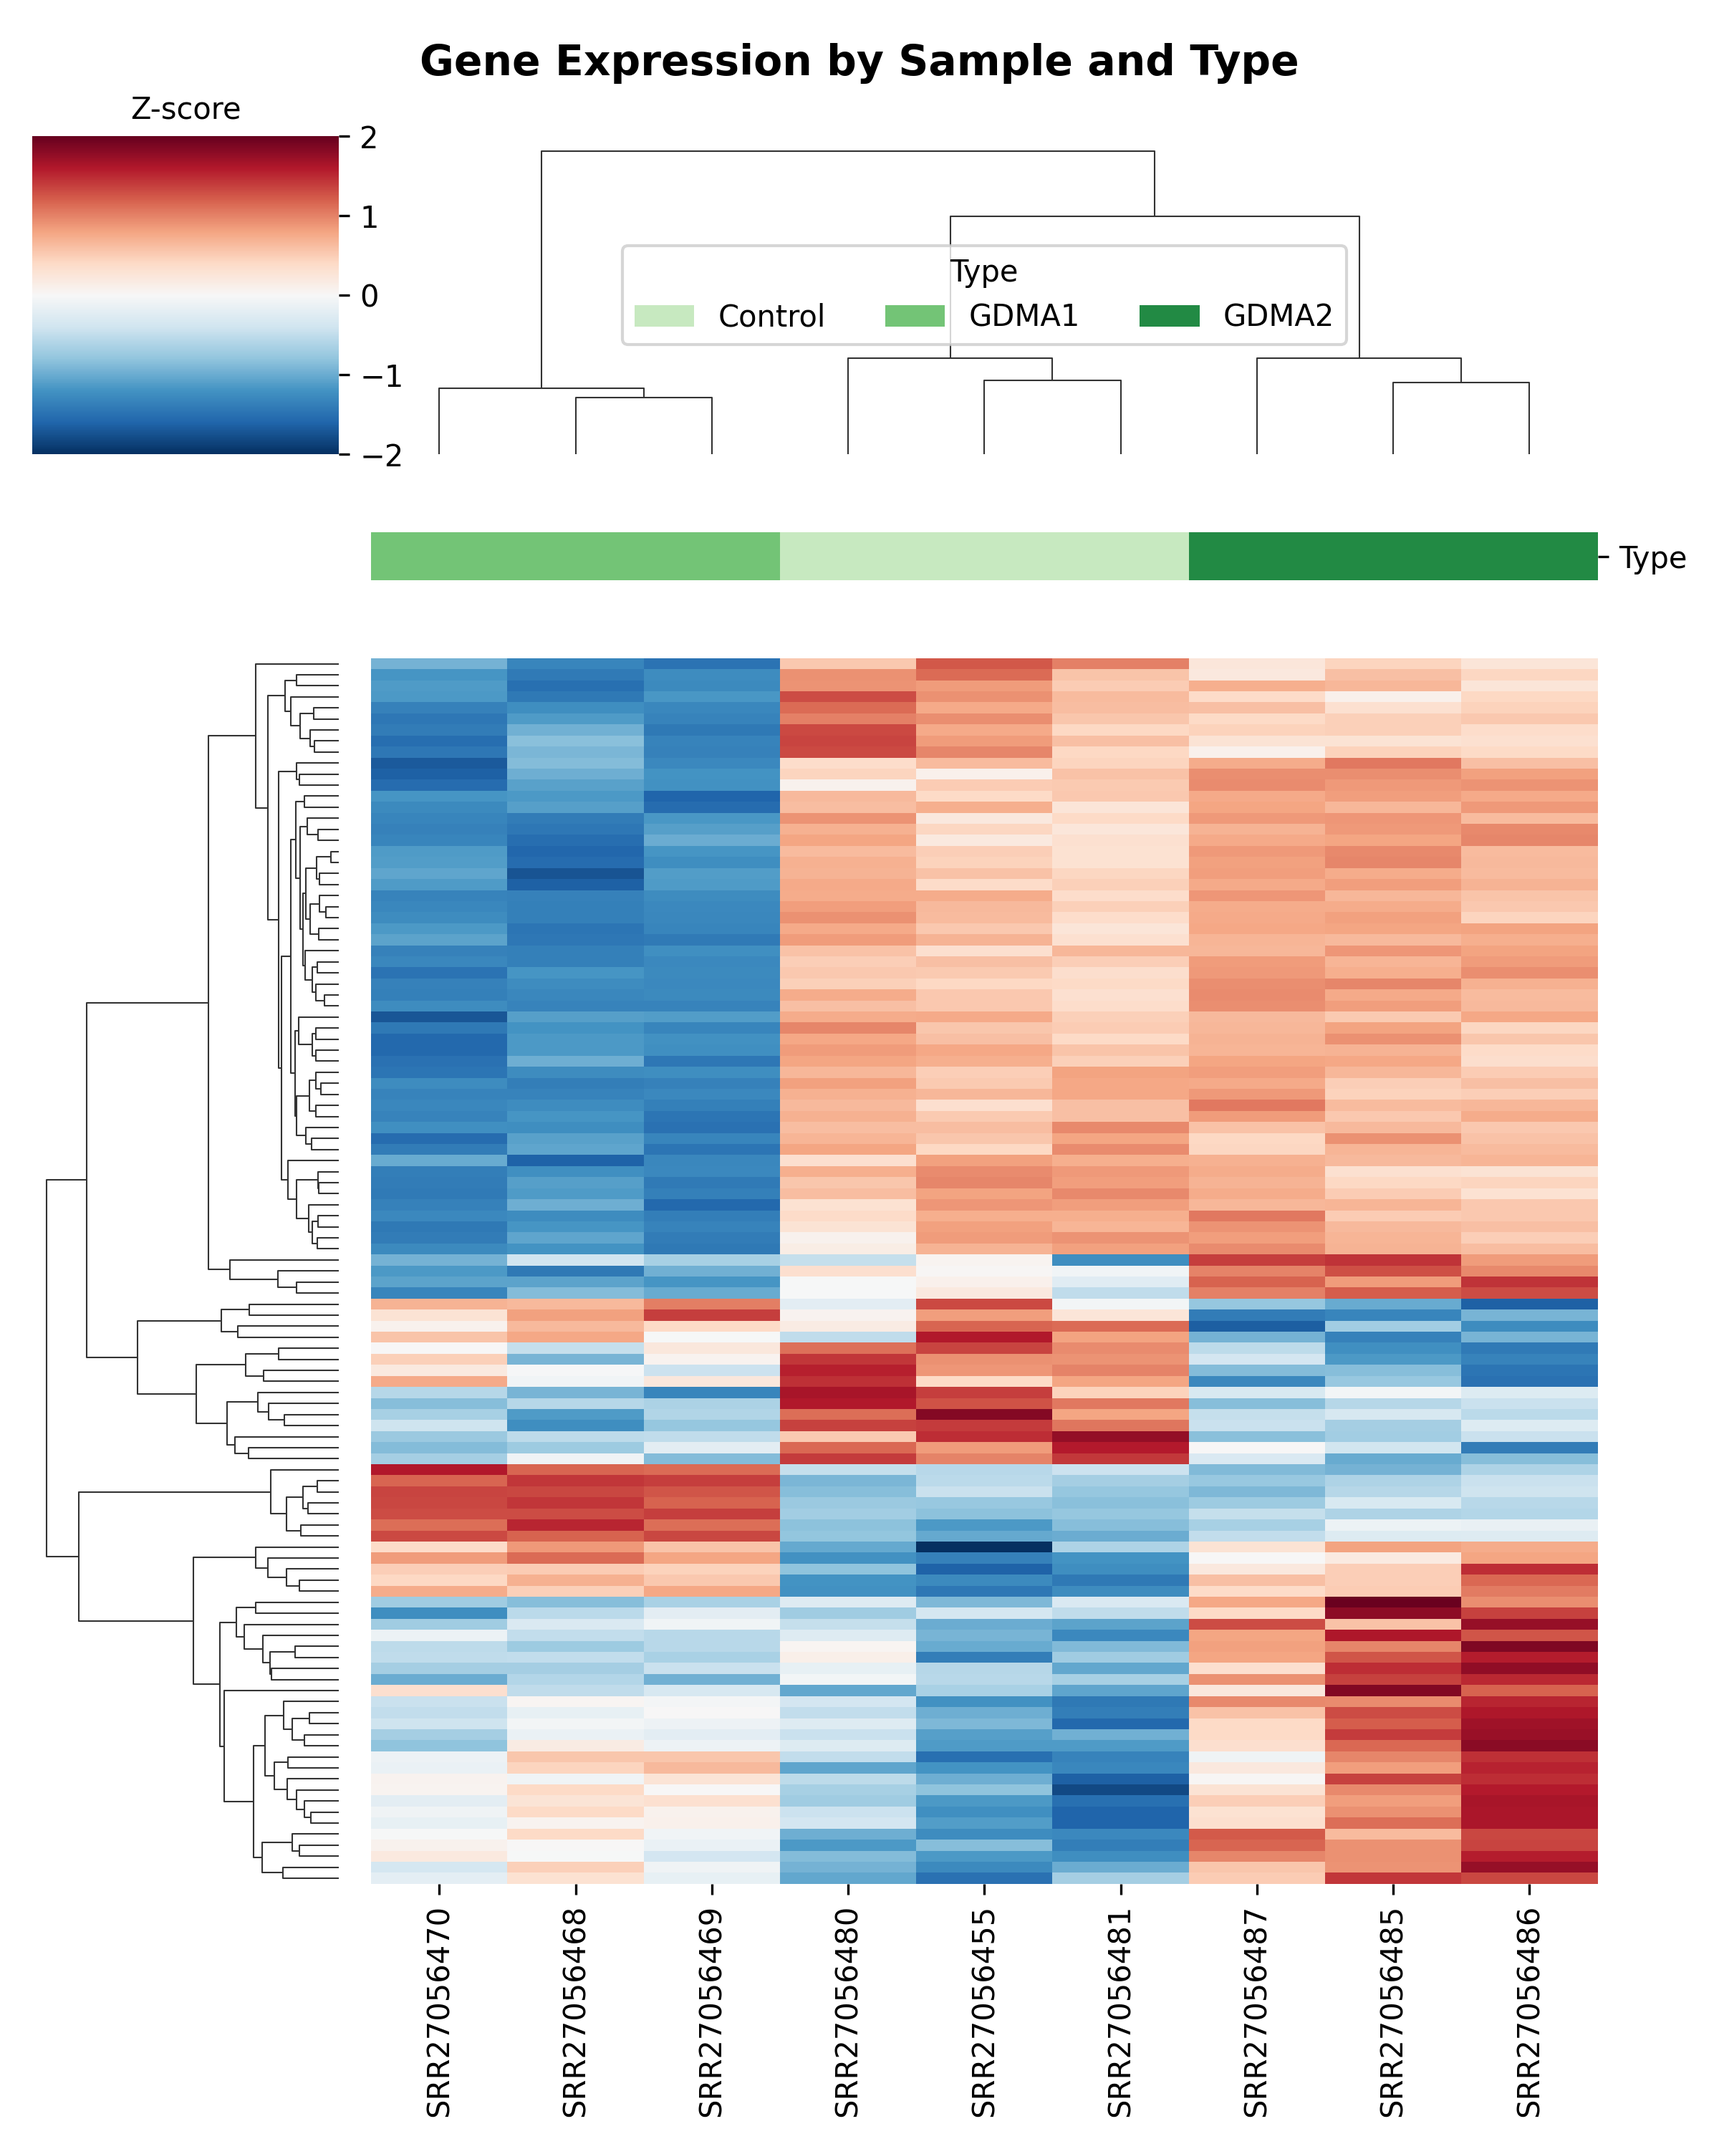
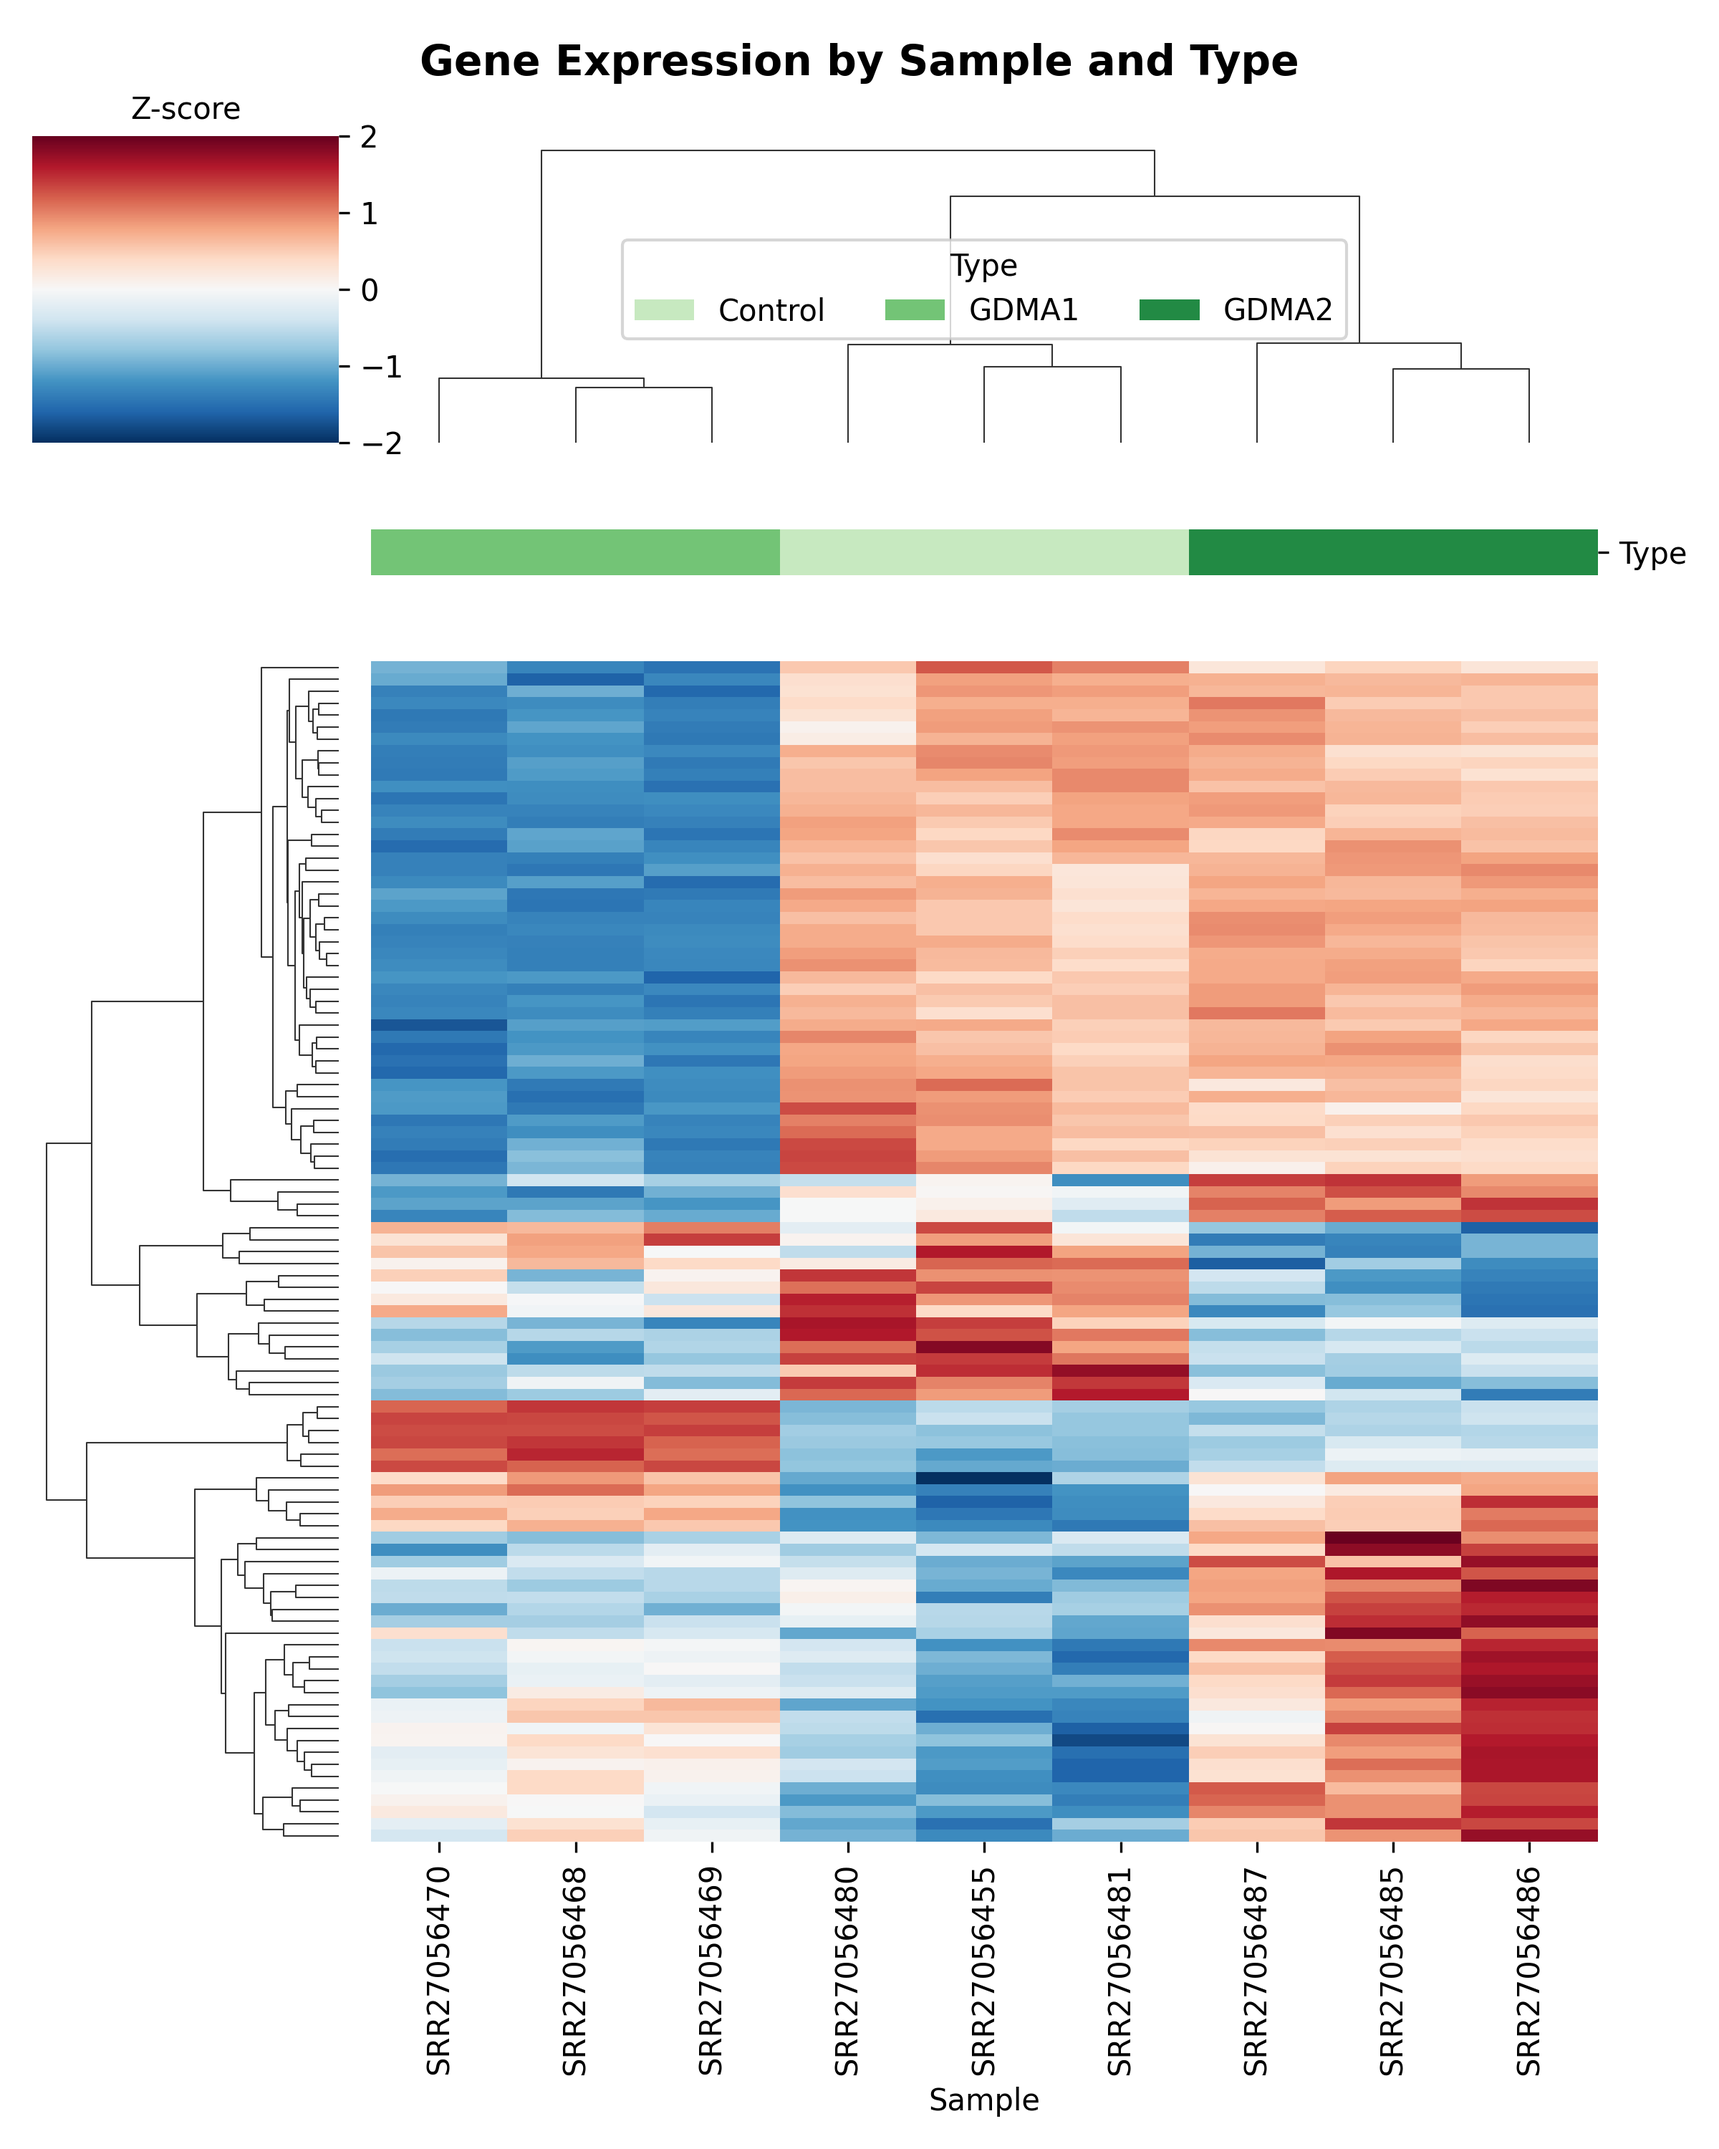
refactored code to work for different amounts of samples

diff --git a/analysis.py b/analysis.py
@@ -9,6 +9,22 @@ from matplotlib_venn import venn2
 from sklearn.decomposition import PCA
 from adjustText import adjust_text
 import gseapy as gp
+import argparse
+
+def get_args():
+    parser = argparse.ArgumentParser(description="Differential GeneExpression Analysis")
+    parser.add_argument("data_infile", help="Path to the input data file (tab-separated)")
+    parser.add_argument("metadata_infile", help="Path to the metadata file (tab-separated)")
+    parser.add_argument("control", help="Label in metadata tsv of control group")
+    parser.add_argument("--run_all", action="store_true", help="Run all analyses (PCA, volcano plots, heatmap, GSEA, Venn diagram)")
+    parser.add_argument("--run_pca", action="store_true", help="Run PCA analysis")
+    parser.add_argument("--run_volcano", action="store_true", help="Run volcano plot analysis")
+    parser.add_argument("--run_heatmap", action="store_true", help="Run heatmap analysis")
+    parser.add_argument("--run_gsea", action="store_true", help="Run GSEA analysis")
+    parser.add_argument("--run_venn", action="store_true", help="Run Venn diagram analysis")
+    parser.add_argument("--gsea_gene_set", choices=["MSigDB", "GO-BP"], help="Gene set for GSEA analysis (MSigDB or GO-BP)")
+
+    return parser.parse_args()
 
 def read_inputs(data_infile, metadata_infile):
     # validate data input file and read to dataframe
@@ -20,14 +36,14 @@ def read_inputs(data_infile, metadata_infile):
 
     # validate metadata input file and read to dataframe
     try:
-        metadata = pd.read_csv(metadata_infile, sep='\t', index_col=0, header=0)
+        metadata = pd.read_csv(metadata_infile, sep='\t', index_col=0, names=["Sample", "Type"])
     except Exception as e:
         print(f"Problem reading metadata file ({metadata_infile}): {e}")
         exit(-1)
 
     return data, metadata
 
-def create_pca_deseq(dds):
+def create_pca(dds):
     # create a variant stabilization transformation based on the deseq dataset
     dds.vst(use_design=False)
     vst = pd.DataFrame(
@@ -78,63 +94,7 @@ def create_pca_deseq(dds):
     plt.grid(True, linestyle='--', alpha=0.5)
 
     plt.tight_layout()
-    plt.savefig(f"results/pca_deseq.png", dpi=300, bbox_inches="tight")
-
-def create_pca_sklearn(data):
-    # normalize data with log2 transformation
-    log_df = np.log2(data + 1)
-
-    # drop genes with no variance
-    log_df = log_df.loc[:, log_df.std(axis=0) > 0]
-
-    # z-score each gene across samples (number of stdevs away from mean)
-    z = (log_df - log_df.mean(axis=0)) / log_df.std(axis=0)
-
-    # project data into PCA components
-    pca = PCA(n_components=2)
-    pca_coords = pca.fit_transform(z)
-
-    # create dataframe from PCA components, with labels from original data
-    pca_df = pd.DataFrame(pca_coords, columns=["PC1", "PC2"], index=z.index)
-    pca_df["Type"] = labels
-
-    # find mean of each group of genes
-    group_means = log_df.groupby(labels).mean()
-
-    plt.figure(figsize=(9, 7))
-
-    # create plot for samples plotted on PCA
-    pca_df["Type"] = labels
-    ax = sns.scatterplot(
-        data=pca_df,
-        x='PC1',
-        y='PC2',
-        hue='Type',
-        s=100,
-        palette='Set1',
-        alpha=0.6
-    )
-
-    # label each point with sample name
-    for x, y, label in zip(pca_df["PC1"], pca_df["PC2"], pca_df.index):
-        ax.annotate(
-            label,
-            (x, y),
-            xytext=(5, -5),
-            textcoords="offset points",
-            va="center",
-        )
-
-
-    # Label PC axes with explained variance percentage
-    var_exp = pca.explained_variance_ratio_ * 100
-    plt.xlabel(f'PC1 ({var_exp[0]:.1f}% Variance Explained)', fontsize=12)
-    plt.ylabel(f'PC2 ({var_exp[1]:.1f}% Variance Explained)', fontsize=12)
-    plt.title('PCA of Gene Expression', fontsize=14, fontweight='bold')
-    plt.grid(True, linestyle='--', alpha=0.5)
-
-    plt.tight_layout()
-    plt.savefig(f"results/pca_sklearn.png", dpi=300, bbox_inches="tight")
+    plt.savefig(f"results/pca.png", dpi=300, bbox_inches="tight")
 
 def create_ds(dds, variant, control):
     # save various statistics from comparison of the two types
@@ -192,24 +152,17 @@ def create_volcano_plot(dds, variant, control):
     plt.tight_layout()
     plt.savefig(f"results/volcano_{variant}_{control}.png", dpi=300, bbox_inches="tight")
 
-def create_heatmap(dds, variant1, variant2, control, metadata):
+def create_heatmap(dds, disease_types, control, metadata):
     # normalize dataframe
     norm = pd.DataFrame(dds.layers["normed_counts"], index=dds.obs_names, columns=dds.var_names)
     log_norm = np.log2(norm + 1)  # samples x genes
+    top_genes = set()
 
-    # find statistics for each comparison and union together to compare all
-    res1 = create_ds(dds, variant1, control)
-    top1 = find_top_genes(res1)
+    for type in disease_types:
+        res = create_ds(dds, type, control)
+        top_genes = top_genes.union(find_top_genes(res))
 
-    res2 = create_ds(dds, variant2, control)
-    top2 = find_top_genes(res2)
-
-    res3 = create_ds(dds, variant2, variant1)
-    top3 = find_top_genes(res3)
-
-    top_genes = top1.union(top2).union(top3)
-
-    mat = log_norm[top_genes]
+    mat = log_norm[list(top_genes)]
 
     types = metadata.loc[mat.index, "Type"]
     palette = dict(zip(types.unique(), sns.color_palette("Greens", types.nunique())))
@@ -246,7 +199,7 @@ def create_gsea(dds, variant, control, gene_sets):
 
     if gene_sets == "MSigDB":
         gene_sets_name = "MSigDB_Hallmark_2020"
-    elif gene_sets == "GO":
+    elif gene_sets == "GO-BP":
         gene_sets_name = "GO_Biological_Process_2023"
 
     # compare genes to set of pathways
@@ -282,19 +235,19 @@ def create_gsea(dds, variant, control, gene_sets):
                title=f"{variant} vs {control}", figsize=(4, 8),
                ofname=f"results/gsea_{variant}_{control}_{gene_sets}.png")
     
-def create_venn_diagram(dds, variant1, variant2, control):
+def create_venn_diagram(dds, disease_types, control):
     # find stats for both types compared against control
-    ds = create_ds(dds, variant1, control)
-    sset1 = set(ds[(ds["padj"] < 0.05) & (ds["log2FoldChange"].abs() > 1)].index)
-
-    ds = create_ds(dds, variant2, control)
-    sset2 = set(ds[(ds["padj"] < 0.05) & (ds["log2FoldChange"].abs() > 1)].index)
+    subsets = []
+    for type in disease_types:
+        res = create_ds(dds, type, control)
+        sig_genes = set(res[(res["padj"] < 0.05) & (res["log2FoldChange"].abs() > 1)].index)
+        subsets.append(sig_genes)
 
     # plot both subsets in a venn diagram
     plt.figure(figsize=(9, 7))
     venn2(
-        subsets=(sset1, sset2),
-        set_labels=(f"{variant1} vs {control}", f"{variant2} vs {control}"),
+        subsets=subsets,
+        set_labels=[f"{type} vs {control}" for type in disease_types],
         set_colors=("#1f77b4", "#ff7f0e"),
         alpha=0.6
     )
@@ -303,18 +256,28 @@ def create_venn_diagram(dds, variant1, variant2, control):
     plt.tight_layout()
     plt.savefig(f"results/venn_diagram.png", dpi=300)
 
+args = get_args()
+
+if args.run_all:
+    args.run_pca = args.run_volcano = args.run_heatmap = args.run_gsea = args.run_venn = True
+    
 # read data and metadata from input files
-data, metadata = read_inputs(sys.argv[1], sys.argv[2])
+data, metadata = read_inputs(args.data_infile, args.metadata_infile)
 
-control = sys.argv[3]
+control = args.control
 
-type_1 = sys.argv[4]
-type_2 = sys.argv[5]
+disease_types = metadata["Type"].unique()
+disease_types = [t for t in disease_types if t != control]
 
-try:
-    gsea_gene_set = sys.argv[6]
-except IndexError:
-    gsea_gene_set = -1
+if args.run_gsea:
+    if args.gsea_gene_set is None:
+        print("Please specify a gene set for GSEA analysis using --gsea_gene_set (MSigDB or GO-BP).")
+        sys.exit(1)
+
+if args.run_venn:
+    if len(disease_types) < 2:
+        print("At least two disease types are required to create a Venn diagram.")
+        sys.exit(1)
 
 data = data.astype(int)
 
@@ -331,16 +294,20 @@ data = data[genes_to_keep]
 dds = DeseqDataSet(counts=data, metadata=metadata, design_factors="Type")
 dds.deseq2()
 
-create_pca_deseq(dds)
-create_pca_sklearn(data)
 
-create_volcano_plot(dds, type_1, control)
-create_volcano_plot(dds, type_2, control)
+if args.run_pca:
+    create_pca(dds)
 
-create_heatmap(dds, type_1, type_2, control, metadata)
+if args.run_volcano:
+    for type in disease_types:
+        create_volcano_plot(dds, type, control)
 
-if gsea_gene_set != -1:
-    create_gsea(dds, type_1, control, gsea_gene_set)
-    create_gsea(dds, type_2, control, gsea_gene_set)
+if args.run_heatmap:
+    create_heatmap(dds, disease_types, control, metadata)
 
-create_venn_diagram(dds, type_1, type_2, control)
+if args.run_gsea:
+    for type in disease_types:
+        create_gsea(dds, type, control, args.gsea_gene_set)
+
+if args.run_venn:
+    create_venn_diagram(dds, disease_types, control)
